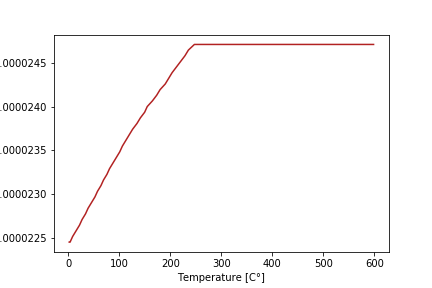
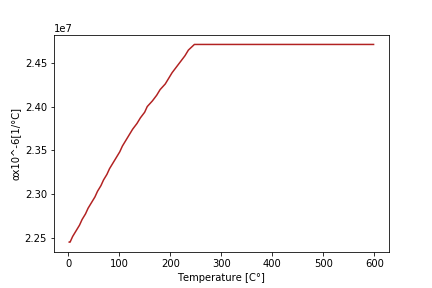
.

diff --git a/Abaqus/material.py b/Abaqus/material.py
@@ -113,7 +113,7 @@ class Material:
         alpha_sign = '\u03B1'
         material_name = self.get_material_name()
         table_exp = self.get_property_table('Expansion')
-        alpha = [x[1]*10**(-6) for x in table_exp]
+        alpha = [x[1]*10**(6) for x in table_exp]
         T = [x[0] for x in table_exp]
         plt.plot(T,alpha, c='firebrick')
         plt.xlabel('Temperature [C' + degree_sign + ']')
